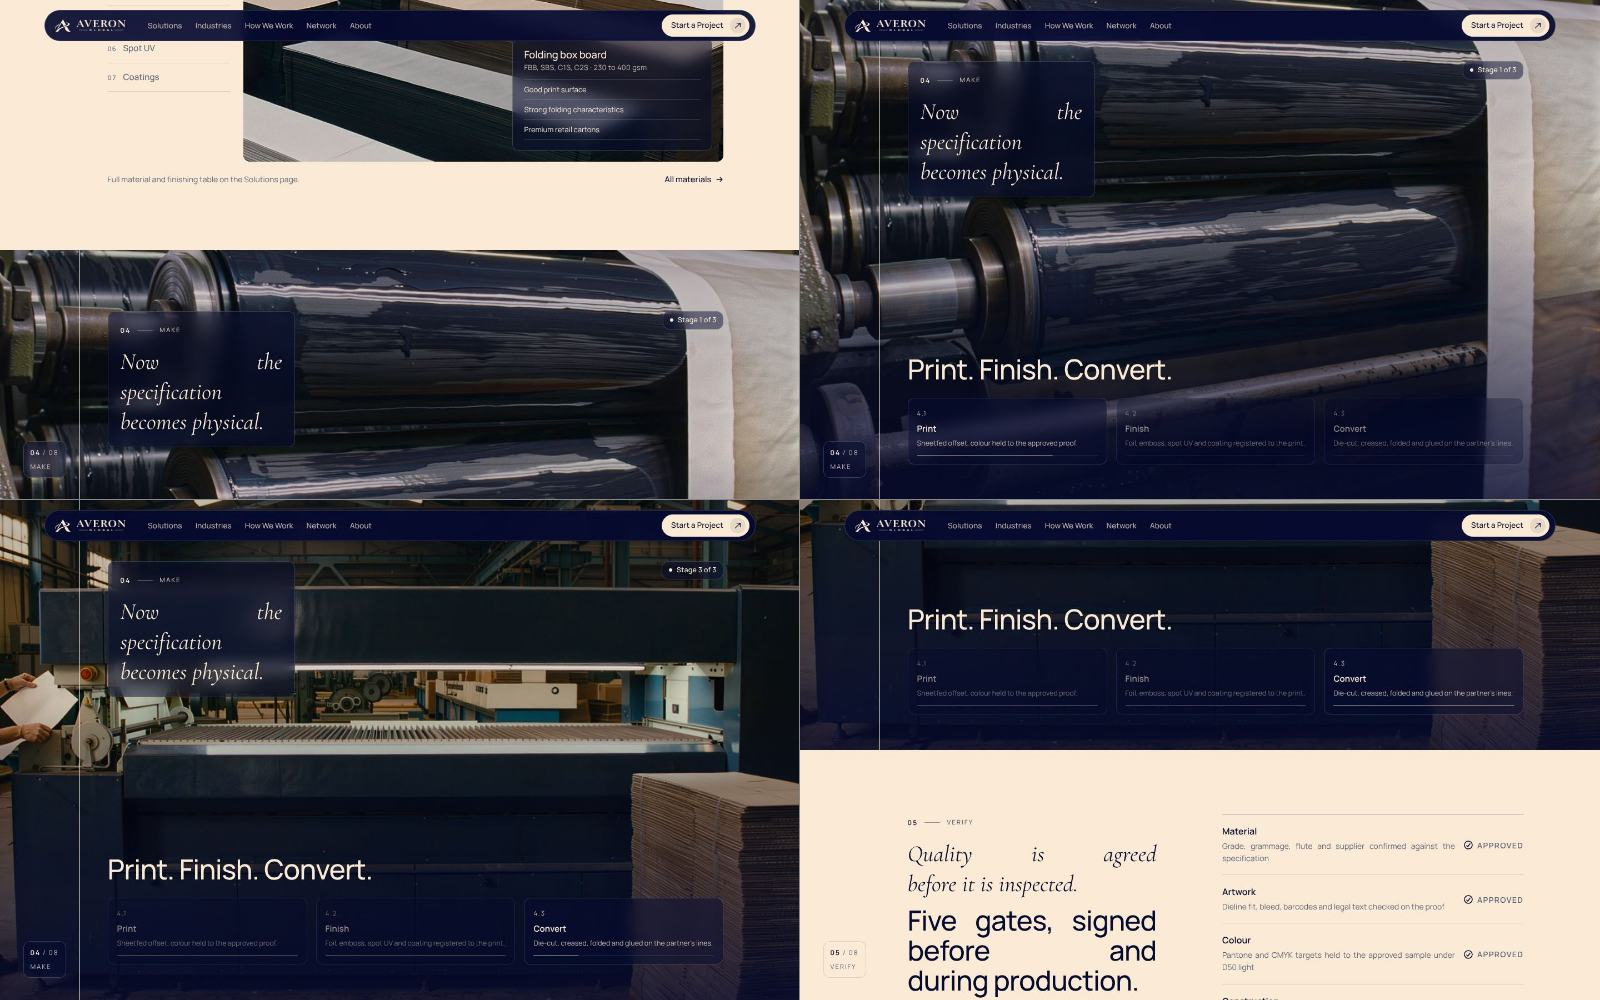
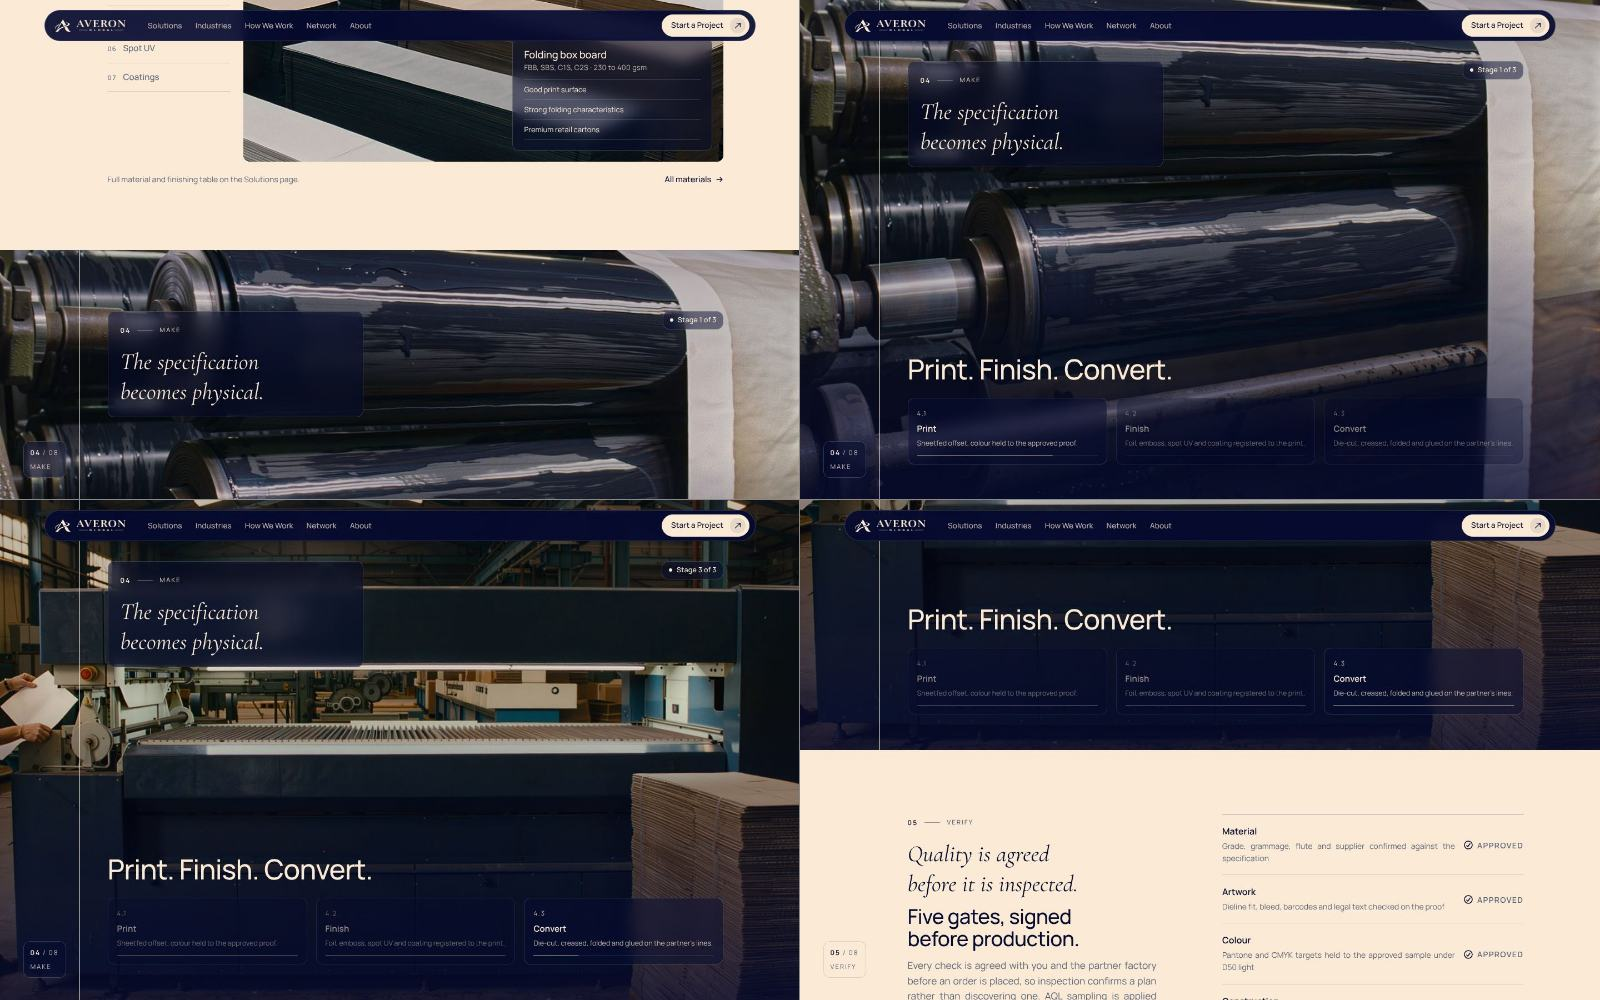
Justify running text only; headings left-aligned and held to two lines
Claude-Session: https://claude.ai/code/session_01PChZkDeqbTq27VG1MVFXKg

diff --git a/assets/site.css b/assets/site.css
@@ -539,14 +539,20 @@ table.spec td:first-child { font-weight: 600; width: 22%; }
   .route .ink { transform: none; }
 }
 
-/* Owner's instruction (15 October 2026): every piece of text is justified, headings, descriptions, cards, menus, footers and phone layouts included */
-h1, h2, h3, h4, p, li, dt, dd, td, th, figcaption, label, blockquote, summary, legend, address, span.edit, .edit, .lead, .kicker, .caption, .small, .tag, .pill, .textlink, .nav .links a, .overlay a, .rail .t, .chlabel .l, .gate b, .gate span, .footer li, .values b, .sum .f b, .legal span, pre {
+/* Owner's instruction (15 October 2026): justify running text only; headings, labels, menus, buttons and short lines stay left-aligned */
+.open .lead, .brief .copy p:not(.edit), .source .panel p:not(.edit), .material .head p:not(.edit), .verify .copy p:not(.edit), .pack .copy p:not(.edit), .move .info p, .deliver p:not(.edit), .convert .copy p:not(.edit),
+.pagehead .lead, .rowx p, .stagerow p, .split p, .values p, .sum .f p, .prose p, .prose li, .cta p, .about .body p, .footer .c1 p, .briefpage .intro p, .bstep .help, .result .help, .gate span, td {
   text-align: justify;
   text-justify: inter-word;
-}
-p, li, .lead, .edit, td, figcaption, .gate span, .sum .f p, .footer p, .prose p, .prose li, .bstep .help, .result .help {
   hyphens: auto;
   -webkit-hyphens: auto;
   hyphenate-limit-chars: 8 4 4;
 }
-.open .acts, .material .more, .pack .seq figcaption, .make .top, .cta .wrap, .nav .pillbar, .overlay, .footer .legal, .result .acts, .nav-row { text-align: justify; }
+/* Headings hold to one or two lines at every width */
+h2 { max-width: 24ch; }
+.brief .copy h2, .verify .copy h2, .pack .copy h2 { max-width: none; }
+.verify .copy h2, .pack .copy h2 { font-size: clamp(1.6rem, 1.15rem + 1.4vw, 2.3rem); }
+.split h2, .pagehead h1 { max-width: 20ch; }
+.split h2 { font-size: clamp(1.6rem, 1.15rem + 1.4vw, 2.3rem); }
+@media (max-width: 640px) { h2 { max-width: none; } .pagehead h1 { font-size: 1.85rem; } }
+.make .edit { max-width: 24ch; }

diff --git a/index.html b/index.html
@@ -165,7 +165,7 @@
         <div class="wrap off top">
           <div class="glass intro">
             <div class="chlabel"><span class="n">04</span><span class="bar"></span><span class="l">Make</span></div>
-            <p class="edit">Now the specification becomes physical.</p>
+            <p class="edit">The specification becomes physical.</p>
           </div>
           <span class="tag glass" id="make-counter"><i></i>Stage 1 of 3</span>
         </div>
@@ -192,7 +192,7 @@
       <div class="copy" data-reveal>
         <div class="chlabel"><span class="n">05</span><span class="bar"></span><span class="l">Verify</span></div>
         <p class="edit">Quality is agreed before it is inspected.</p>
-        <h2>Five gates, signed before and during production.</h2>
+        <h2>Five gates, signed before production.</h2>
         <p class="muted" style="margin-top:14px">Every check is agreed with you and the partner factory before an order is placed, so inspection confirms a plan rather than discovering one. AQL sampling is applied where agreed.</p>
         <div class="ph zoom">
           <picture><source type="image/webp" srcset="assets/photo/m/journey-verify.webp 960w, assets/photo/journey-verify.webp 1600w" sizes="(max-width: 1023px) 100vw, 420px"><img src="assets/photo/m/journey-verify.jpg" srcset="assets/photo/m/journey-verify.jpg 960w, assets/photo/journey-verify.jpg 1600w" sizes="(max-width: 1023px) 100vw, 420px" width="1600" height="1067" alt="A quality inspector measuring a navy carton flap with a caliper at an inspection bench" loading="lazy" decoding="async"></picture>

diff --git a/solutions.html b/solutions.html
@@ -50,7 +50,7 @@
     <div class="wrap">
       <span class="kicker">Solutions</span>
       <p class="edit" style="margin-top:16px">Six disciplines. One connected team.</p>
-      <h1>What Averon does between your requirement and your delivery.</h1>
+      <h1>Between requirement and delivery.</h1>
       <p class="lead muted">Each discipline is run by the same point of contact, so nothing is handed off and nothing is lost between the brief, the factory and the destination.</p>
     </div>
   </section>
@@ -122,7 +122,7 @@
       <div class="split" style="margin-bottom:40px" data-reveal>
         <div>
           <span class="kicker">Industries</span>
-          <h2 style="margin-top:14px">Specified to the retailer, the regulator and the shelf.</h2>
+          <h2 style="margin-top:14px">Specified to the shelf it is sold on.</h2>
         </div>
         <p class="muted lead">Beauty and personal care, food and beverage, healthcare, fashion, lifestyle, luxury, retail and e-commerce. The construction changes; the process does not.</p>
       </div>
@@ -142,7 +142,7 @@
       <div class="split" style="margin-bottom:32px" data-reveal>
         <div>
           <span class="kicker">Materials &amp; packaging</span>
-          <h2 style="margin-top:14px">Materials and finishing, specified per project.</h2>
+          <h2 style="margin-top:14px">Materials and finishing.</h2>
         </div>
         <p class="muted lead">Grades and finishes are confirmed with the partner factory before quotation. Specification sheets follow once a project is briefed.</p>
       </div>

diff --git a/tools/pages/solutions.html b/tools/pages/solutions.html
@@ -8,7 +8,7 @@
     <div class="wrap">
       <span class="kicker">Solutions</span>
       <p class="edit" style="margin-top:16px">Six disciplines. One connected team.</p>
-      <h1>What Averon does between your requirement and your delivery.</h1>
+      <h1>Between requirement and delivery.</h1>
       <p class="lead muted">Each discipline is run by the same point of contact, so nothing is handed off and nothing is lost between the brief, the factory and the destination.</p>
     </div>
   </section>
@@ -80,7 +80,7 @@
       <div class="split" style="margin-bottom:40px" data-reveal>
         <div>
           <span class="kicker">Industries</span>
-          <h2 style="margin-top:14px">Specified to the retailer, the regulator and the shelf.</h2>
+          <h2 style="margin-top:14px">Specified to the shelf it is sold on.</h2>
         </div>
         <p class="muted lead">Beauty and personal care, food and beverage, healthcare, fashion, lifestyle, luxury, retail and e-commerce. The construction changes; the process does not.</p>
       </div>
@@ -100,7 +100,7 @@
       <div class="split" style="margin-bottom:32px" data-reveal>
         <div>
           <span class="kicker">Materials &amp; packaging</span>
-          <h2 style="margin-top:14px">Materials and finishing, specified per project.</h2>
+          <h2 style="margin-top:14px">Materials and finishing.</h2>
         </div>
         <p class="muted lead">Grades and finishes are confirmed with the partner factory before quotation. Specification sheets follow once a project is briefed.</p>
       </div>

diff --git a/tools/pages/index.html b/tools/pages/index.html
@@ -123,7 +123,7 @@
         <div class="wrap off top">
           <div class="glass intro">
             <div class="chlabel"><span class="n">04</span><span class="bar"></span><span class="l">Make</span></div>
-            <p class="edit">Now the specification becomes physical.</p>
+            <p class="edit">The specification becomes physical.</p>
           </div>
           <span class="tag glass" id="make-counter"><i></i>Stage 1 of 3</span>
         </div>
@@ -150,7 +150,7 @@
       <div class="copy" data-reveal>
         <div class="chlabel"><span class="n">05</span><span class="bar"></span><span class="l">Verify</span></div>
         <p class="edit">Quality is agreed before it is inspected.</p>
-        <h2>Five gates, signed before and during production.</h2>
+        <h2>Five gates, signed before production.</h2>
         <p class="muted" style="margin-top:14px">Every check is agreed with you and the partner factory before an order is placed, so inspection confirms a plan rather than discovering one. AQL sampling is applied where agreed.</p>
         <div class="ph zoom">
           {{pic:journey-verify|(max-width: 1023px) 100vw, 420px|A quality inspector measuring a navy carton flap with a caliper at an inspection bench}}

diff --git a/how-we-work.html b/how-we-work.html
@@ -74,7 +74,7 @@
       <div class="split" data-reveal>
         <div>
           <span class="kicker">Quality management</span>
-          <h2 style="margin-top:14px">Defined before production. Checked throughout.</h2>
+          <h2 style="margin-top:14px">Agreed before. Checked throughout.</h2>
           <p class="muted">Every check is agreed with you and the partner factory before an order is placed, so inspection confirms a plan rather than discovering one. AQL sampling is applied where agreed.</p>
           <div class="ph r32 zoom" style="margin-top:24px"><picture><source type="image/webp" srcset="assets/photo/m/quality-macro.webp 960w, assets/photo/quality-macro.webp 1600w" sizes="(max-width: 1023px) 100vw, 520px"><img src="assets/photo/m/quality-macro.jpg" srcset="assets/photo/m/quality-macro.jpg 960w, assets/photo/quality-macro.jpg 1600w" sizes="(max-width: 1023px) 100vw, 520px" width="1600" height="2124" alt="A digital caliper measuring the wall of a navy rigid box lid" loading="lazy" decoding="async"></picture></div>
         </div>

diff --git a/tools/pages/how-we-work.html b/tools/pages/how-we-work.html
@@ -32,7 +32,7 @@
       <div class="split" data-reveal>
         <div>
           <span class="kicker">Quality management</span>
-          <h2 style="margin-top:14px">Defined before production. Checked throughout.</h2>
+          <h2 style="margin-top:14px">Agreed before. Checked throughout.</h2>
           <p class="muted">Every check is agreed with you and the partner factory before an order is placed, so inspection confirms a plan rather than discovering one. AQL sampling is applied where agreed.</p>
           <div class="ph r32 zoom" style="margin-top:24px">{{pic:quality-macro|(max-width: 1023px) 100vw, 520px|A digital caliper measuring the wall of a navy rigid box lid}}</div>
         </div>

diff --git a/about.html b/about.html
@@ -49,8 +49,8 @@
   <section class="pagehead on-ivory">
     <div class="wrap">
       <span class="kicker">About Averon</span>
-      <p class="edit" style="margin-top:16px">Built through trusted manufacturing partnerships. Managed by one connected team.</p>
-      <h1>An international packaging sourcing and supply partner.</h1>
+      <p class="edit" style="margin-top:16px">Trusted partnerships. One connected team.</p>
+      <h1>Packaging, sourced and supplied.</h1>
       <p class="lead muted">Commercial interface in the United Kingdom. Production network in Bangladesh. Supply coordinated to the destination market.</p>
     </div>
   </section>

diff --git a/tools/pages/about.html b/tools/pages/about.html
@@ -7,8 +7,8 @@
   <section class="pagehead on-ivory">
     <div class="wrap">
       <span class="kicker">About Averon</span>
-      <p class="edit" style="margin-top:16px">Built through trusted manufacturing partnerships. Managed by one connected team.</p>
-      <h1>An international packaging sourcing and supply partner.</h1>
+      <p class="edit" style="margin-top:16px">Trusted partnerships. One connected team.</p>
+      <h1>Packaging, sourced and supplied.</h1>
       <p class="lead muted">Commercial interface in the United Kingdom. Production network in Bangladesh. Supply coordinated to the destination market.</p>
     </div>
   </section>
